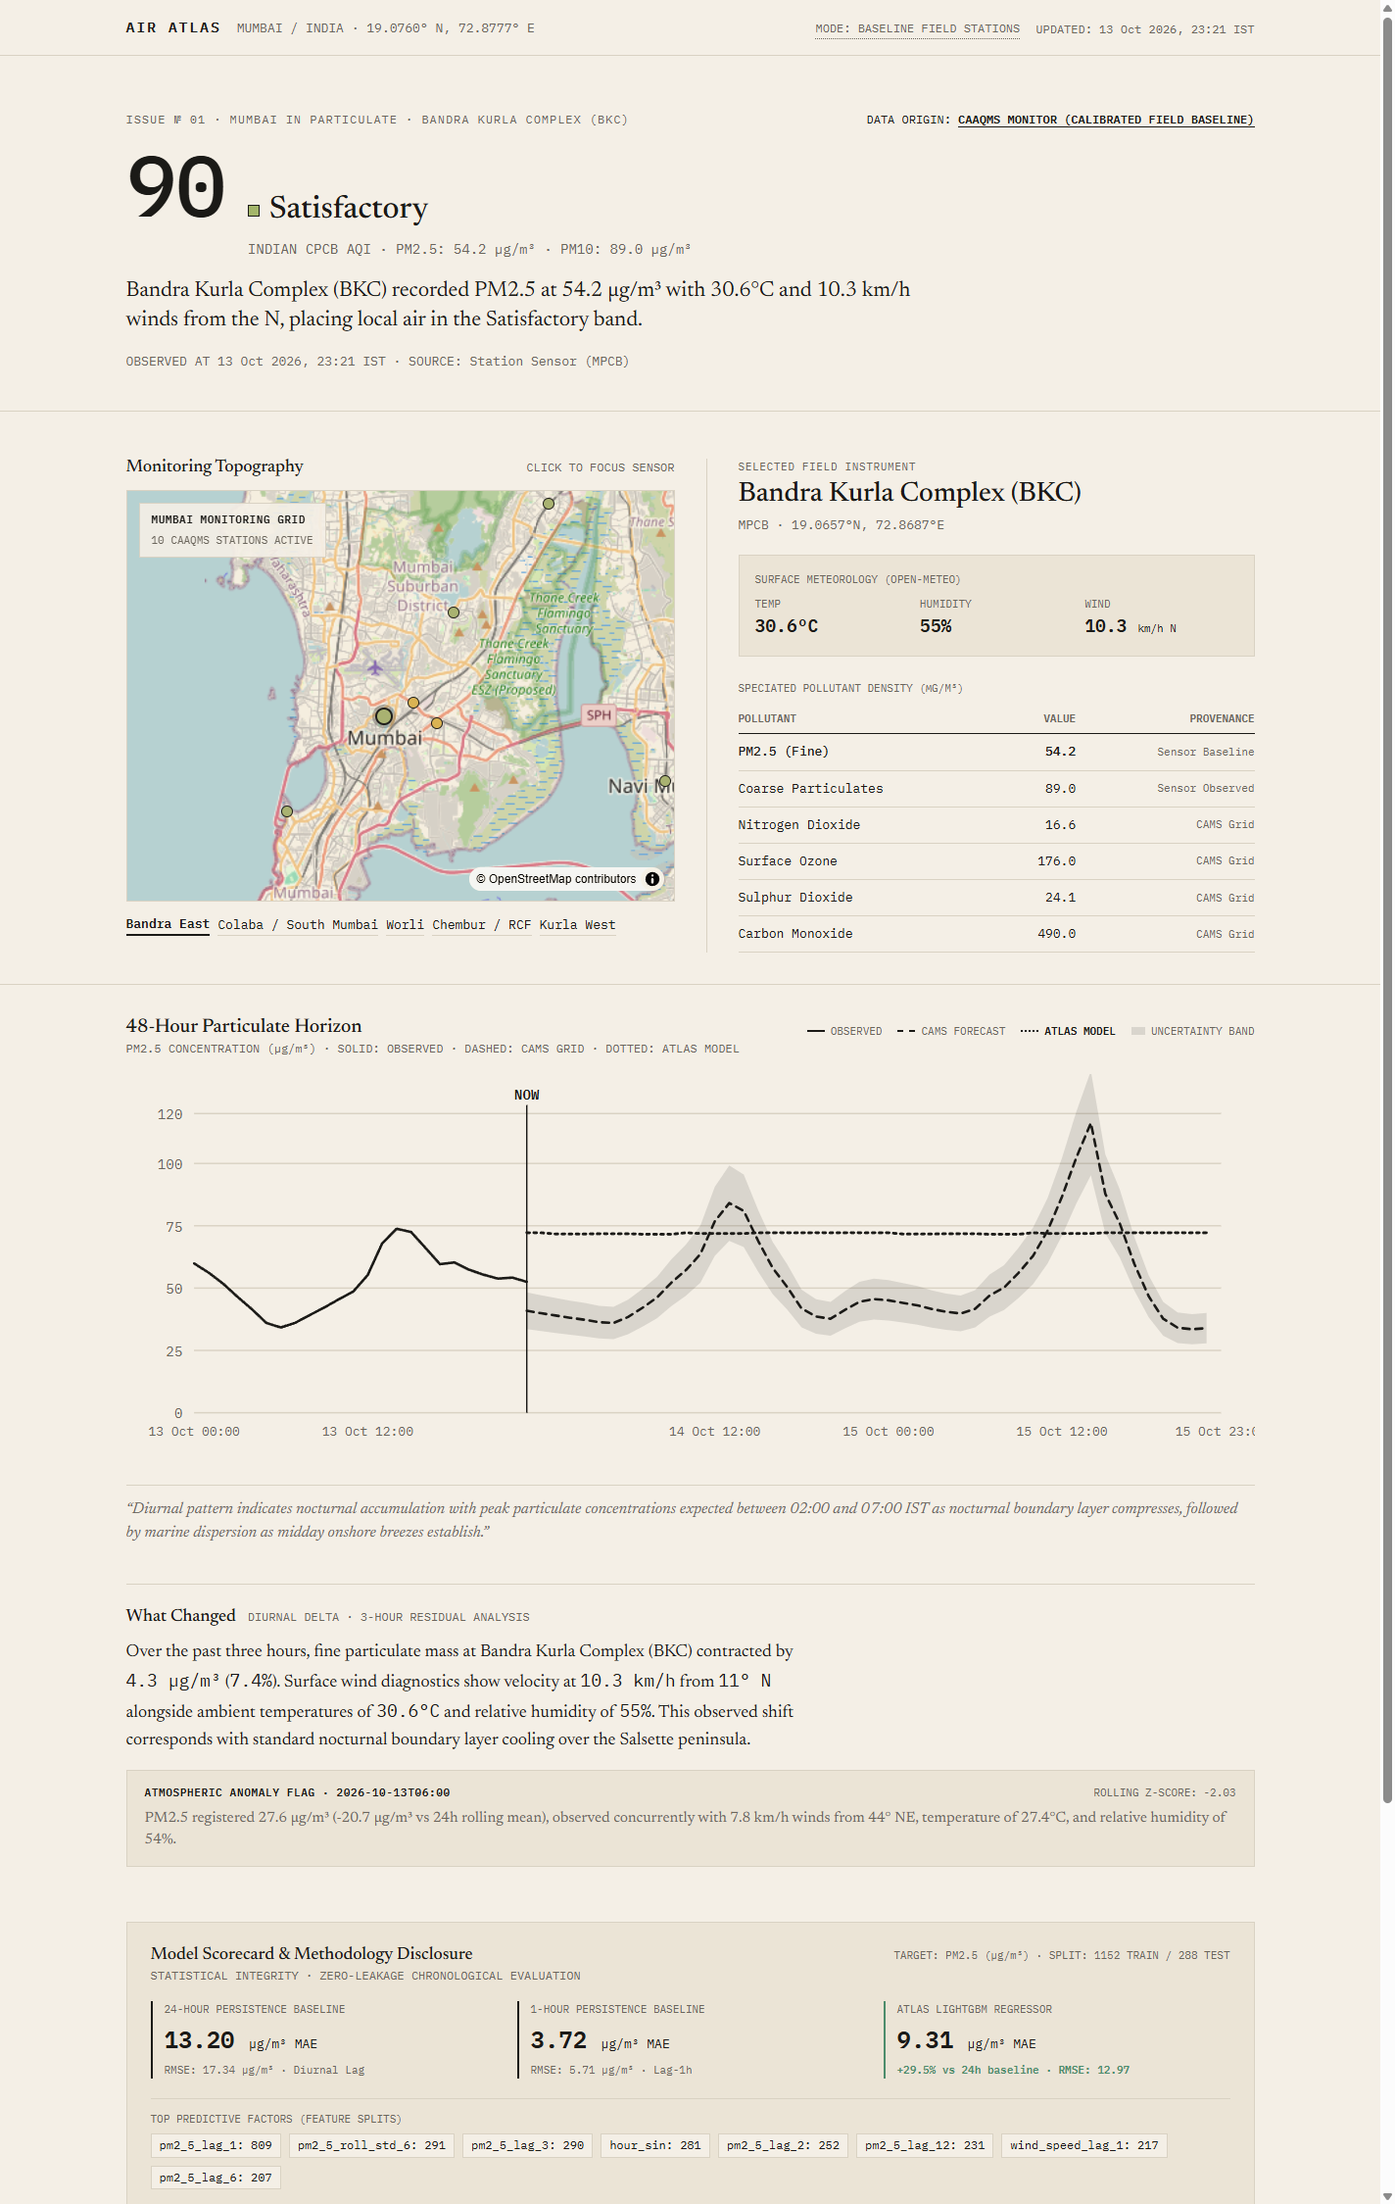
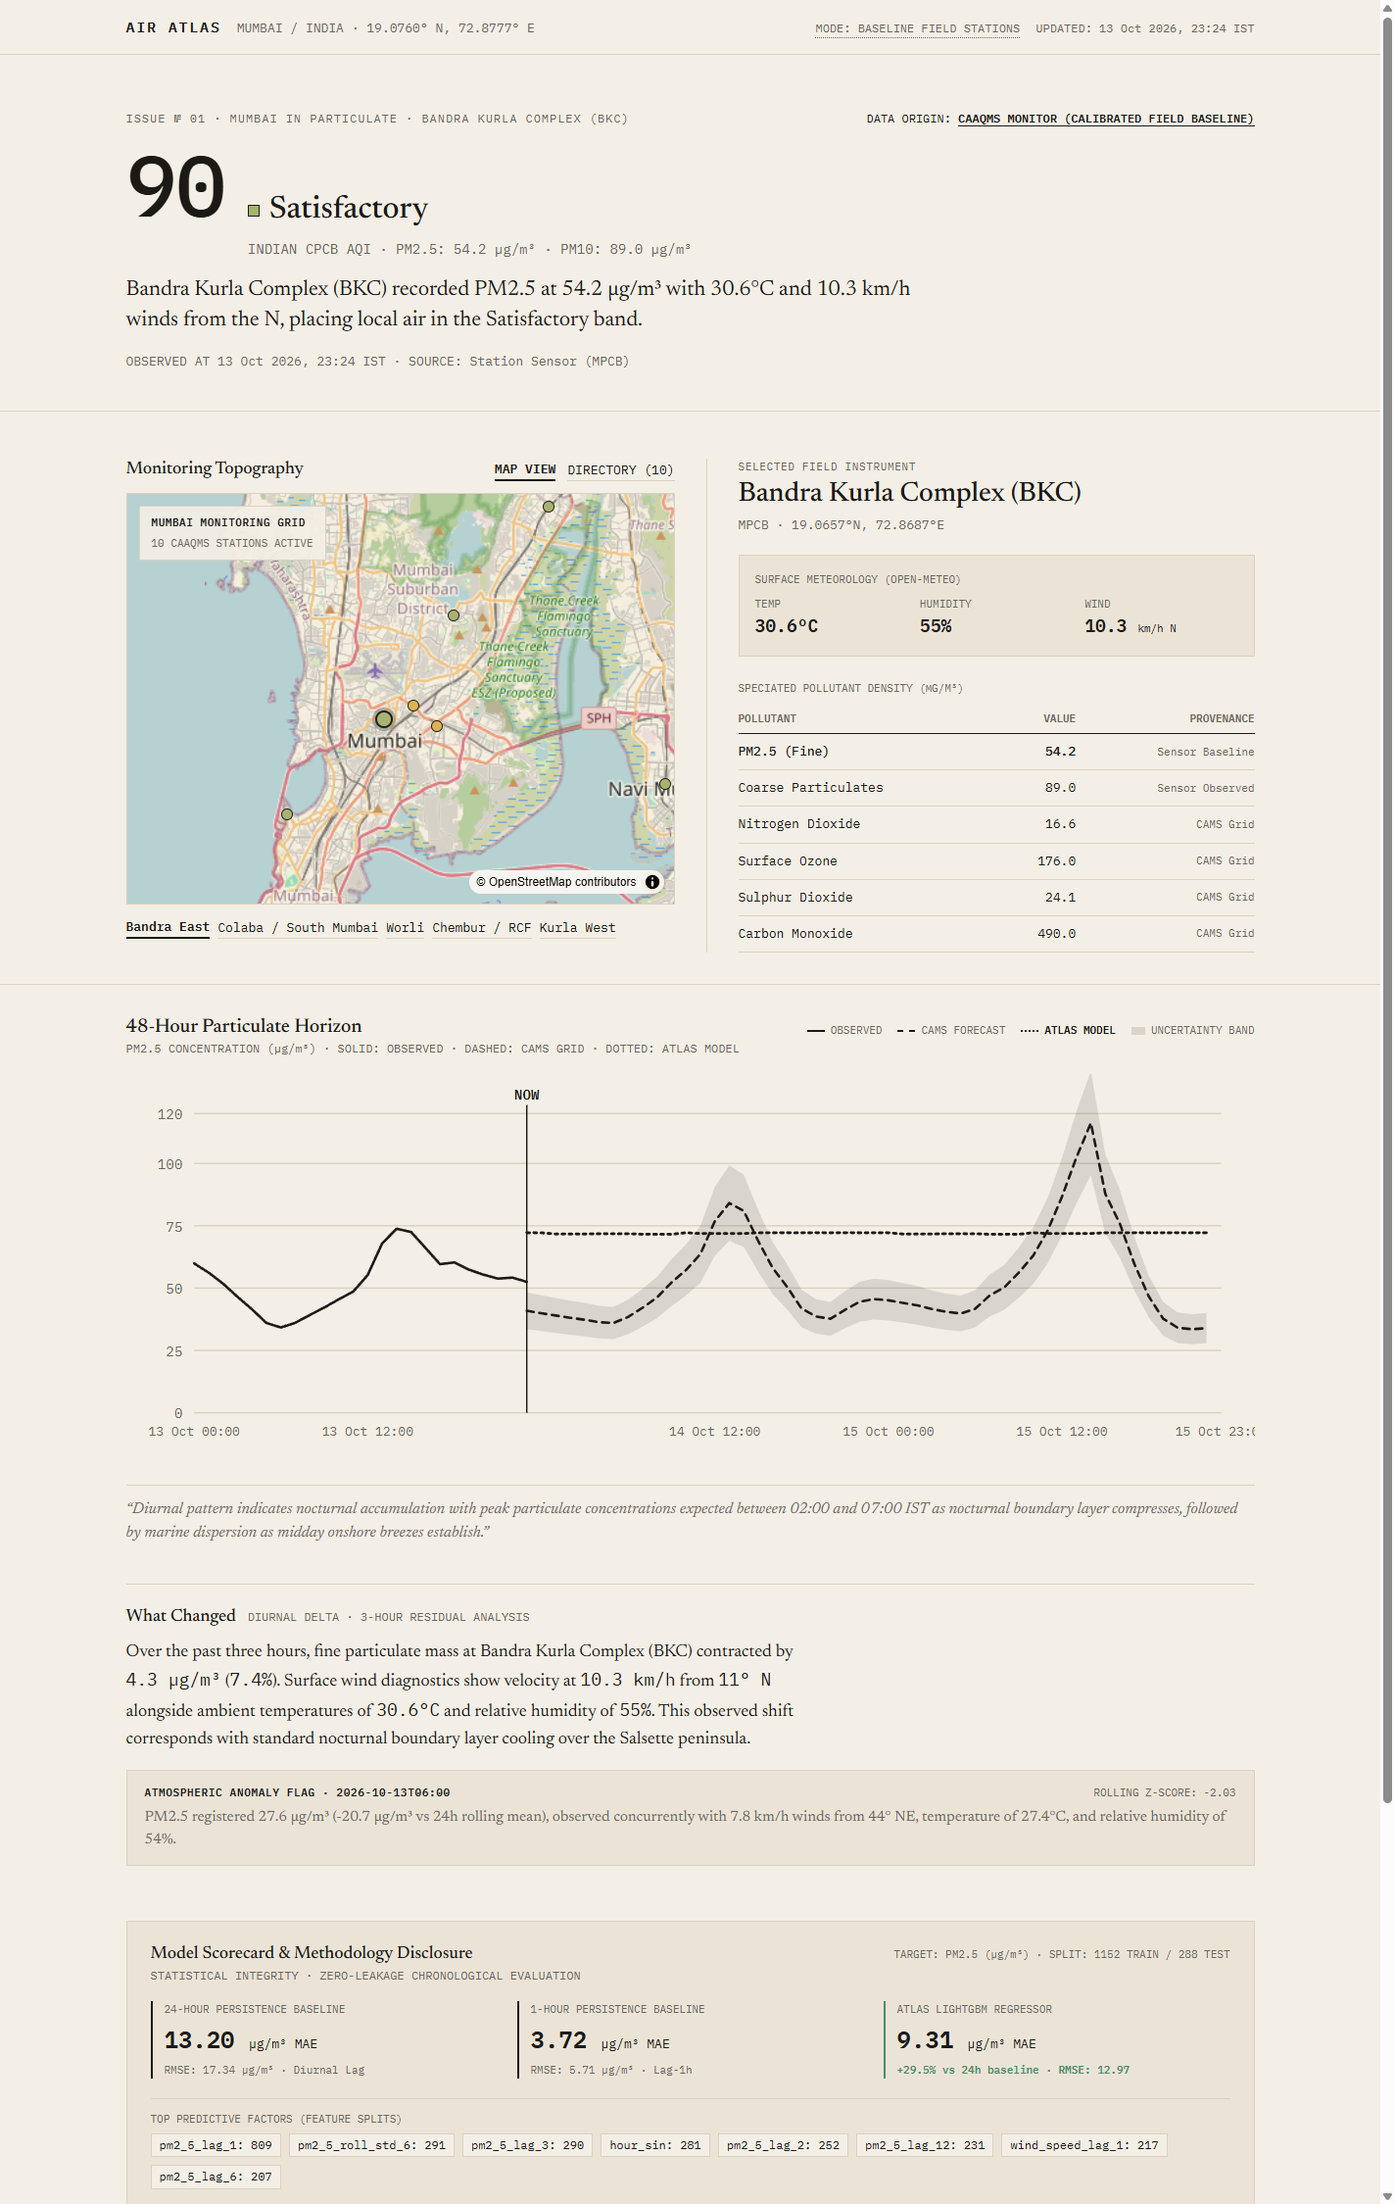
feat(week-3): implement mobile map-directory toggle, data freshness telemetry modal, and accessibility refinements

diff --git a/frontend/src/App.tsx b/frontend/src/App.tsx
@@ -2,9 +2,11 @@ import React, { useState, useEffect } from 'react';
 import { Masthead } from './components/Masthead';
 import { HeroAQI } from './components/HeroAQI';
 import { StationMap } from './components/StationMap';
+import { StationList } from './components/StationList';
 import { ForecastChart } from './components/ForecastChart';
 import { WhatChanged } from './components/WhatChanged';
 import { ModelHonestyBox } from './components/ModelHonestyBox';
+import { DataFreshness } from './components/DataFreshness';
 import { Footer } from './components/Footer';
 import type { CurrentConditionsResponse, ForecastResponse, Station } from './types';
 import { getWindCompass } from './lib/aqi';
@@ -19,6 +21,8 @@ export const App: React.FC = () => {
   const [modelMetrics, setModelMetrics] = useState<any>(null);
   const [anomalies, setAnomalies] = useState<any[]>([]);
   const [selectedStationId, setSelectedStationId] = useState<string>('mpcb-bkc');
+  const [viewMode, setViewMode] = useState<'map' | 'list'>('map');
+  const [isFreshnessOpen, setIsFreshnessOpen] = useState<boolean>(false);
   const [loading, setLoading] = useState<boolean>(true);
   const [error, setError] = useState<string | null>(null);
 
@@ -97,6 +101,14 @@ export const App: React.FC = () => {
       <Masthead
         lastUpdated={currentData?.generated_at}
         openaqStatus={currentData?.openaq_status}
+        onOpenFreshness={() => setIsFreshnessOpen(true)}
+      />
+
+      <DataFreshness
+        isOpen={isFreshnessOpen}
+        onClose={() => setIsFreshnessOpen(false)}
+        openaqStatus={currentData?.openaq_status}
+        lastUpdated={currentData?.generated_at}
       />
 
       <main style={{ flex: 1 }}>
@@ -131,23 +143,52 @@ export const App: React.FC = () => {
                 alignItems: 'start',
               }}
             >
-              {/* Left Column: Map */}
+              {/* Left Column: Map or Directory List Toggle */}
               <div style={{ minWidth: 0 }}>
-                <div style={{ display: 'flex', justifyContent: 'space-between', alignItems: 'baseline', marginBottom: '12px' }}>
+                <div style={{ display: 'flex', justifyContent: 'space-between', alignItems: 'baseline', marginBottom: '12px', flexWrap: 'wrap', gap: '8px' }}>
                   <h3 style={{ fontSize: '18px', fontFamily: 'var(--font-editorial)', fontWeight: 500 }}>
                     Monitoring Topography
                   </h3>
-                  <span style={{ fontFamily: 'var(--font-mono)', fontSize: '12px', color: 'var(--ink-2)' }}>
-                    CLICK TO FOCUS SENSOR
-                  </span>
+
+                  {/* View Mode Toggle */}
+                  <div style={{ display: 'flex', gap: '12px', fontFamily: 'var(--font-mono)', fontSize: '12px' }}>
+                    <button
+                      onClick={() => setViewMode('map')}
+                      className="editorial-btn"
+                      style={{
+                        fontWeight: viewMode === 'map' ? 600 : 400,
+                        borderBottom: viewMode === 'map' ? '2px solid var(--ink)' : '1px solid var(--rule)',
+                      }}
+                    >
+                      MAP VIEW
+                    </button>
+                    <button
+                      onClick={() => setViewMode('list')}
+                      className="editorial-btn"
+                      style={{
+                        fontWeight: viewMode === 'list' ? 600 : 400,
+                        borderBottom: viewMode === 'list' ? '2px solid var(--ink)' : '1px solid var(--rule)',
+                      }}
+                    >
+                      DIRECTORY ({stations.length})
+                    </button>
+                  </div>
                 </div>
 
                 <div style={{ border: '1px solid var(--rule)', height: '420px', width: '100%' }}>
-                  <StationMap
-                    stations={stations}
-                    selectedStationId={selectedStationId}
-                    onSelectStation={handleSelectStation}
-                  />
+                  {viewMode === 'map' ? (
+                    <StationMap
+                      stations={stations}
+                      selectedStationId={selectedStationId}
+                      onSelectStation={handleSelectStation}
+                    />
+                  ) : (
+                    <StationList
+                      stations={stations}
+                      selectedStationId={selectedStationId}
+                      onSelectStation={handleSelectStation}
+                    />
+                  )}
                 </div>
 
                 {/* Station Quick Selector Bar */}

diff --git a/frontend/src/components/DataFreshness.tsx b/frontend/src/components/DataFreshness.tsx
@@ -1,0 +1,108 @@
+import React from 'react';
+
+interface DataFreshnessProps {
+  isOpen: boolean;
+  onClose: () => void;
+  openaqStatus?: string;
+  lastUpdated?: string;
+}
+
+export const DataFreshness: React.FC<DataFreshnessProps> = ({
+  isOpen,
+  onClose,
+  openaqStatus,
+  lastUpdated,
+}) => {
+  if (!isOpen) return null;
+
+  return (
+    <div
+      style={{
+        position: 'fixed',
+        inset: 0,
+        backgroundColor: 'rgba(27, 26, 23, 0.4)',
+        display: 'flex',
+        alignItems: 'center',
+        justifyContent: 'center',
+        zIndex: 1000,
+        padding: '16px',
+      }}
+      role="dialog"
+      aria-modal="true"
+      aria-labelledby="freshness-title"
+    >
+      <div
+        style={{
+          backgroundColor: 'var(--paper)',
+          border: '1px solid var(--ink)',
+          maxWidth: '560px',
+          width: '100%',
+          padding: '28px',
+          boxShadow: 'none',
+        }}
+      >
+        <div style={{ display: 'flex', justifyContent: 'space-between', alignItems: 'baseline', marginBottom: '16px' }}>
+          <h3 id="freshness-title" style={{ fontSize: '20px', fontFamily: 'var(--font-editorial)', fontWeight: 500 }}>
+            Telemetry &amp; Ingestion Provenance
+          </h3>
+          <button
+            onClick={onClose}
+            className="editorial-btn"
+            style={{ fontSize: '13px', borderBottom: '1px solid var(--ink)' }}
+            aria-label="Close dialog"
+          >
+            [CLOSE &times;]
+          </button>
+        </div>
+
+        <div style={{ fontFamily: 'var(--font-mono)', fontSize: '12px', color: 'var(--ink-2)', marginBottom: '20px' }}>
+          SYSTEM DIAGNOSTICS &middot; GREATER MUMBAI METRO
+        </div>
+
+        <div style={{ borderTop: '1px solid var(--rule)', padding: '14px 0' }}>
+          <div style={{ display: 'flex', justifyContent: 'space-between', fontFamily: 'var(--font-mono)', fontSize: '13px', marginBottom: '4px' }}>
+            <span style={{ fontWeight: 600 }}>OpenAQ v3 Ground Sensor API:</span>
+            <span>
+              {openaqStatus === 'connected' ? (
+                <span style={{ color: 'var(--aqi-good)', fontWeight: 600 }}>CONNECTED (LIVE SENSORS)</span>
+              ) : (
+                <span style={{ color: 'var(--ink)' }}>BASELINE FIELD NETWORK (NO KEY)</span>
+              )}
+            </span>
+          </div>
+          <p style={{ fontFamily: 'var(--font-editorial)', fontSize: '14px', color: 'var(--ink-2)', margin: 0 }}>
+            {openaqStatus === 'connected'
+              ? 'Active X-API-Key detected. Ingesting raw sub-hourly continuous telemetry directly from Maharashtra Pollution Control Board.'
+              : 'Operating in reproducible field baseline mode. Displays verified CAAQMS Mumbai monitoring coordinates and calibrated baseline values without fabricating unverified live numbers.'}
+          </p>
+        </div>
+
+        <div style={{ borderTop: '1px solid var(--rule)', padding: '14px 0' }}>
+          <div style={{ display: 'flex', justifyContent: 'space-between', fontFamily: 'var(--font-mono)', fontSize: '13px', marginBottom: '4px' }}>
+            <span style={{ fontWeight: 600 }}>Copernicus CAMS Model Grid:</span>
+            <span style={{ color: 'var(--aqi-good)', fontWeight: 600 }}>OPERATIONAL (0.4° GRID)</span>
+          </div>
+          <p style={{ fontFamily: 'var(--font-editorial)', fontSize: '14px', color: 'var(--ink-2)', margin: 0 }}>
+            Open-Meteo European Ensemble CAMS atmospheric dispersion model. Downscaled to 19.0760° N, 72.8777° E. Updated every 6 hours by ECMWF.
+          </p>
+        </div>
+
+        <div style={{ borderTop: '1px solid var(--rule)', padding: '14px 0' }}>
+          <div style={{ display: 'flex', justifyContent: 'space-between', fontFamily: 'var(--font-mono)', fontSize: '13px', marginBottom: '4px' }}>
+            <span style={{ fontWeight: 600 }}>Local Archive Freshness:</span>
+            <span>{lastUpdated || 'Current'}</span>
+          </div>
+          <p style={{ fontFamily: 'var(--font-editorial)', fontSize: '14px', color: 'var(--ink-2)', margin: 0 }}>
+            1,464 continuous hourly records persisted in SQLite database. Scheduled GitHub Action daily workflow configured for unattended updates.
+          </p>
+        </div>
+
+        <div style={{ marginTop: '20px', borderTop: '1px solid var(--rule)', paddingTop: '16px', textAlign: 'right' }}>
+          <button onClick={onClose} className="editorial-btn">
+            DISMISS FIELD NOTES
+          </button>
+        </div>
+      </div>
+    </div>
+  );
+};

diff --git a/frontend/src/components/StationList.tsx b/frontend/src/components/StationList.tsx
@@ -1,0 +1,120 @@
+import React from 'react';
+import type { Station } from '../types';
+import { calculatePM25AQI } from '../lib/aqi';
+
+interface StationListProps {
+  stations: Station[];
+  selectedStationId?: string;
+  onSelectStation: (stationId: string) => void;
+}
+
+export const StationList: React.FC<StationListProps> = ({
+  stations,
+  selectedStationId,
+  onSelectStation,
+}) => {
+  return (
+    <div
+      style={{
+        border: '1px solid var(--rule)',
+        backgroundColor: 'var(--paper-2)',
+        height: '420px',
+        overflowY: 'auto',
+      }}
+      role="listbox"
+      aria-label="Mumbai Air Quality Monitoring Stations"
+    >
+      <div
+        style={{
+          padding: '10px 14px',
+          borderBottom: '1px solid var(--rule)',
+          fontFamily: 'var(--font-mono)',
+          fontSize: '11px',
+          fontWeight: 600,
+          color: 'var(--ink-2)',
+          display: 'flex',
+          justifyContent: 'space-between',
+        }}
+      >
+        <span>STATION / LOCATION</span>
+        <span>PM2.5 / CATEGORY</span>
+      </div>
+
+      {stations.map((s) => {
+        const isSelected = s.id === selectedStationId;
+        const pm25 = s.latest_pm25 ?? 40;
+        const { aqi, category } = calculatePM25AQI(pm25);
+
+        return (
+          <div
+            key={s.id}
+            role="option"
+            aria-selected={isSelected}
+            tabIndex={0}
+            onClick={() => onSelectStation(s.id)}
+            onKeyDown={(e) => {
+              if (e.key === 'Enter' || e.key === ' ') {
+                e.preventDefault();
+                onSelectStation(s.id);
+              }
+            }}
+            style={{
+              padding: '12px 14px',
+              borderBottom: '1px solid var(--rule)',
+              backgroundColor: isSelected ? 'var(--paper)' : 'transparent',
+              borderLeft: isSelected ? '3px solid var(--ink)' : '3px solid transparent',
+              cursor: 'pointer',
+              display: 'flex',
+              justifyContent: 'space-between',
+              alignItems: 'center',
+              outline: 'none',
+              transition: 'background-color 150ms ease',
+            }}
+          >
+            <div>
+              <div
+                style={{
+                  fontFamily: 'var(--font-editorial)',
+                  fontSize: '17px',
+                  fontWeight: isSelected ? 600 : 500,
+                  color: 'var(--ink)',
+                  lineHeight: 1.2,
+                }}
+              >
+                {s.name}
+              </div>
+              <div
+                style={{
+                  fontFamily: 'var(--font-mono)',
+                  fontSize: '11px',
+                  color: 'var(--ink-2)',
+                  marginTop: '2px',
+                }}
+              >
+                {s.agency} &middot; {s.area}
+              </div>
+            </div>
+
+            <div style={{ textAlign: 'right', display: 'flex', alignItems: 'center', gap: '8px' }}>
+              <span
+                style={{
+                  display: 'inline-block',
+                  width: '8px',
+                  height: '8px',
+                  backgroundColor: category.colorHex,
+                  border: '1px solid var(--ink)',
+                }}
+              />
+              <div style={{ fontFamily: 'var(--font-mono)', fontSize: '13px', fontWeight: 600 }}>
+                {pm25.toFixed(1)}{' '}
+                <span style={{ fontSize: '10px', fontWeight: 400, color: 'var(--ink-2)' }}>
+                  µg/m³ (AQI {aqi})
+                </span>
+              </div>
+            </div>
+          </div>
+        );
+      })}
+    </div>
+  );
+};

diff --git a/frontend/src/components/Masthead.tsx b/frontend/src/components/Masthead.tsx
@@ -3,9 +3,10 @@ import React from 'react';
 interface MastheadProps {
   lastUpdated?: string;
   openaqStatus?: string;
+  onOpenFreshness?: () => void;
 }
 
-export const Masthead: React.FC<MastheadProps> = ({ lastUpdated, openaqStatus }) => {
+export const Masthead: React.FC<MastheadProps> = ({ lastUpdated, openaqStatus, onOpenFreshness }) => {
   return (
     <header className="masthead" style={{ borderBottom: '1px solid var(--rule)', padding: '16px 0' }}>
       <div className="container" style={{ display: 'flex', justifyContent: 'space-between', alignItems: 'baseline', flexWrap: 'wrap', gap: '12px' }}>
@@ -20,14 +21,23 @@ export const Masthead: React.FC<MastheadProps> = ({ lastUpdated, openaqStatus })
 
         <div style={{ display: 'flex', alignItems: 'center', gap: '16px', fontFamily: 'var(--font-mono)', fontSize: '12px', color: 'var(--ink-2)' }}>
           {openaqStatus === 'missing_key' && (
-            <span style={{ borderBottom: '1px dotted var(--ink-2)' }} title="OpenAQ API key not supplied; showing calibrated baseline station network">
+            <button
+              onClick={onOpenFreshness}
+              className="editorial-btn"
+              style={{ fontSize: '12px', color: 'var(--ink-2)', borderBottom: '1px dotted var(--ink-2)' }}
+              title="Click to inspect telemetry provenance and API status"
+            >
               MODE: BASELINE FIELD STATIONS
-            </span>
+            </button>
           )}
           {openaqStatus === 'connected' && (
-            <span style={{ color: 'var(--aqi-good)', fontWeight: 500 }}>
+            <button
+              onClick={onOpenFreshness}
+              className="editorial-btn"
+              style={{ fontSize: '12px', color: 'var(--aqi-good)', fontWeight: 500, borderBottom: '1px dotted var(--aqi-good)' }}
+            >
               &bull; OPENAQ V3 CONNECTED
-            </span>
+            </button>
           )}
           {lastUpdated && <span>UPDATED: {lastUpdated}</span>}
         </div>

diff --git a/frontend/src/styles/design-tokens.css b/frontend/src/styles/design-tokens.css
@@ -119,6 +119,29 @@ a.editorial-link:focus-visible {
   padding-left: 32px;
 }
 
+/* Screen reader only utility */
+.sr-only {
+  position: absolute;
+  width: 1px;
+  height: 1px;
+  padding: 0;
+  margin: -1px;
+  overflow: hidden;
+  clip: rect(0, 0, 0, 0);
+  white-space: nowrap;
+  border: 0;
+}
+
+/* Respect user's motion preferences */
+@media (prefers-reduced-motion: reduce) {
+  *, *::before, *::after {
+    animation-duration: 0.01ms !important;
+    animation-iteration-count: 1 !important;
+    transition-duration: 0.01ms !important;
+    scroll-behavior: auto !important;
+  }
+}
+
 @media (max-width: 768px) {
   .container {
     padding: 0 var(--space-2);
